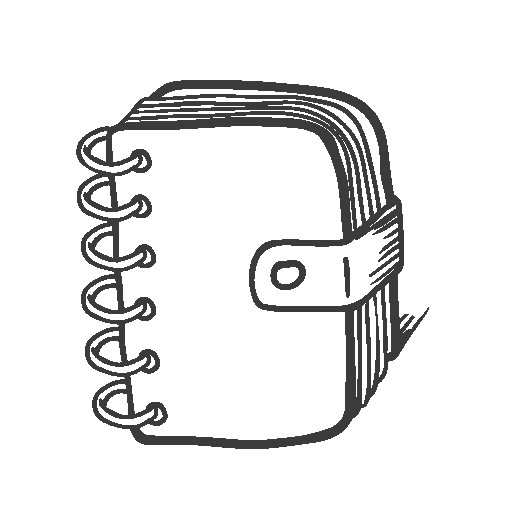
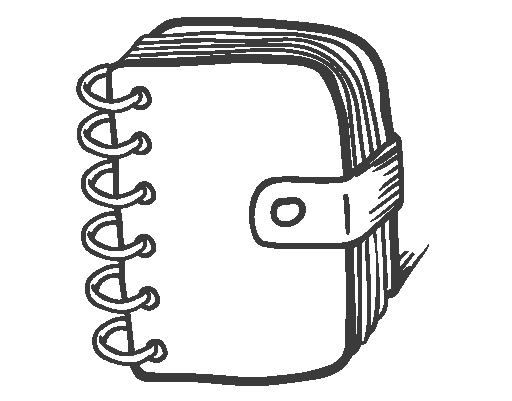
More improvments on landing page

Changed region(s): [[0.125, 0.0299, 0.8438, 0.9875], [0.6875, 0.6584, 0.75, 0.6883]]

diff --git a/src/pages/Index.vue b/src/pages/Index.vue
@@ -4,17 +4,23 @@
          <div class="index_left">
             <g-link to="/about/">
                <div class="center">
-                  <p>
-                     <g-image class="svg" src="~/assets/cranium2.webp" width="260" />
-                  </p>
                   <div class="title">
                      <h1>Portfolio</h1>
                   </div>
+                  <span class="icon-gray">
+                     <g-image
+                        class="svg"
+                        src="~/assets/cranium2.webp"
+                        width="240"
+                     />
+                  </span>
                   <div class="description-text">
                      <p>
-                        &nbsp; Welcome to my portfolio page! My name is David Milosevic and
-                        I am a web developer from Belgrade. Starting from here, you can get info about me, my projects and web development technologies that interests me, skills that I possess, contact info..
-
+                        Welcome to my portfolio page ! My name is David
+                        Milošević and I am a web developer from Belgrade.
+                        Starting from here, you can get info about my projects
+                        and web development technologies that interests me,
+                        skills that I possess, contact info. Enter Here...
                      </p>
                   </div>
                </div>
@@ -24,22 +30,50 @@
          <div class="index-right">
             <g-link to="/blog/">
                <div class="center">
-                        <p>
-                           <g-image class="svg" src="~/assets/notebook.png" width="260"/>
-                        </p>
-                  <h1>Blog</h1>
+                  <div class="title">
+                     <h1>Technology Blog</h1>
+                  </div>
+                  <span class="gray-icon">
+                     <g-image
+                        class="svg"
+                        src="~/assets/notebook.png"
+                        width="240"
+                     />
+                  </span>
                   <div class="description-text">
                      <p>
-                        &nbsp;  Discover the latest news in tech and web development in
-                        this articles section! The most knowledge about all kinds of technologies I am involved in.
+                        Discover the latest news in tech and web development in
+                        this articles section! The most fresh knowledge about
+                        all kinds of technologies I am involved in. Some of the
+                        titles are:
                      </p>
                   </div>
+                  <!-- <span
+                     class="blog-links"
+                     v-for="{ node } in $page.posts.edges"
+                     :key="node.id"
+                  >
+                     <g-link :to="node.path">
+                        <p>
+                           <span class="blog-subtitle">{{ node.title }}</span>
+                           {{ node.date }} ...
+                        </p>
+                     </g-link>
+                 </span> -->
                </div>
             </g-link>
          </div>
       </div>
    </Landing>
 </template>
+
+<page-query>
+     query Posts($page: Int) { posts: allContentfulPortfolioBlog(sortBy: "date", order: DESC, perPage: 3, page: $page)
+    @paginate { totalCount pageInfo { totalPages
+  currentPage } 
+    edges { node { id, path, image { file { url } }, title, body, date (format:
+  "MMMM D, Y") } } } }
+</page-query>
 
 <script>
 export default {
@@ -52,11 +86,25 @@ export default {
 
 <style lang="scss">
 .index_wrapper {
-   font-family: "Orbitron", sans-serif;
    display: flex;
+   font-weight: 600;
+
+   &::after {
+      content: "";
+      background-image: url(../assets/workstation.png);
+      background-size: cover;
+      opacity: 0.017;
+      top: 0;
+      left: 0;
+      bottom: 0;
+      right: 0;
+      position: absolute;
+      z-index: -1;
+   }
 
    @media (max-width: 576px) {
       flex-direction: column;
+      background-image: url(../assets/workstation2.png);
    }
 }
 .index_left {
@@ -69,6 +117,8 @@ export default {
    border-right: 2px solid #2e8b57;
 
    p {
+      text-indent: 10%;
+      font-size: 1.2rem;
       margin: 2rem auto;
       line-height: 1.5rem;
       word-spacing: 0.4rem;
@@ -78,18 +128,35 @@ export default {
       width: 100%;
       border-right: none;
    }
+
+   .title {
+      margin: 1rem auto;
+
+      h1 {
+         animation-name: moveInLeft;
+         animation-duration: 2s;
+         animation-timing-function: ease-out;
+      }
+      font-size: 3rem;
+   }
 }
 
-.title {
-   h1 {
-      animation-name: moveInLeft;
-      animation-duration: 2s;
-      animation-timing-function: ease-out;
-   }
-   font-size: 3rem;
+.blog-links {
+   text-decoration: underline;
+   font-weight: 400;
+}
+
+.blog-subtitle {
+   font-style: italic;
 }
 
 .description-text {
+   text-align: justify;
+   width: calc(100% - 2rem);
+
+   @media (max-width: 576px) {
+      text-align: center;
+   }
 }
 
 .index-right {
@@ -101,15 +168,15 @@ export default {
    width: 50%;
 
    p {
-      margin: 2rem auto;
-      line-height: 1.5rem;
+      font-size: 1.2rem;
       word-spacing: 0.4rem;
    }
-
-   h1 {
-      animation-name: moveInRight;
-      animation-duration: 2s;
-      animation-timing-function: ease-out;
+   .title {
+      h1 {
+         animation-name: moveInRight;
+         animation-duration: 2s;
+         animation-timing-function: ease-out;
+      }
    }
 
    @media (max-width: 576px) {
@@ -119,31 +186,26 @@ export default {
    }
 }
 
-.svg {
-   color: #363636;
-   fill: #363636;
+.icon-gray {
+   margin: 1rem auto;
 }
 
 .center {
    cursor: pointer;
    display: flex;
    width: 30vw;
-   height: 300px;
-   justify-content: center;
+   justify-content: space-evenly;
    align-items: center;
    flex-direction: column;
+   height: 650px;
 
    @media (max-width: 576px) {
+      p {
+         font-size: 1rem;
+         word-spacing: 0.2rem;
+      }
       width: 70vw;
    }
-}
-
-.fade-enter-active {
-   transition: opacity 6s;
-}
-
-.fade-enter {
-   opacity: 0;
 }
 
 @keyframes moveInLeft {

diff --git a/src/pages/About.vue b/src/pages/About.vue
@@ -1,4 +1,5 @@
 <template>
+  <Landing>
   <div class="icon-container">
     <div class="icon-row">
       <span class="icon">
@@ -41,6 +42,7 @@
      </span>
    </div>
   </div>
+  </Landing>
 </template>
 
 <script>

diff --git a/src/layouts/Landing.vue b/src/layouts/Landing.vue
@@ -18,7 +18,7 @@ query {
 
 <style lang="scss">
 .fade-enter-active {
-  transition: opacity .8s;
+  transition: opacity 4s;
 }
 
 .fade-enter {
